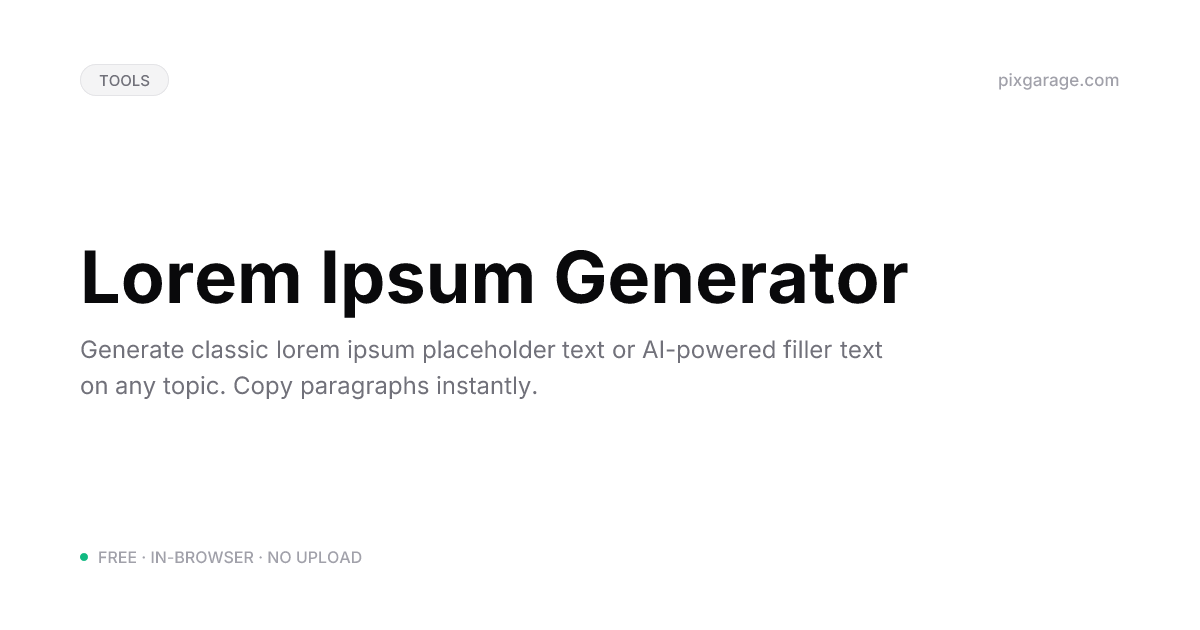
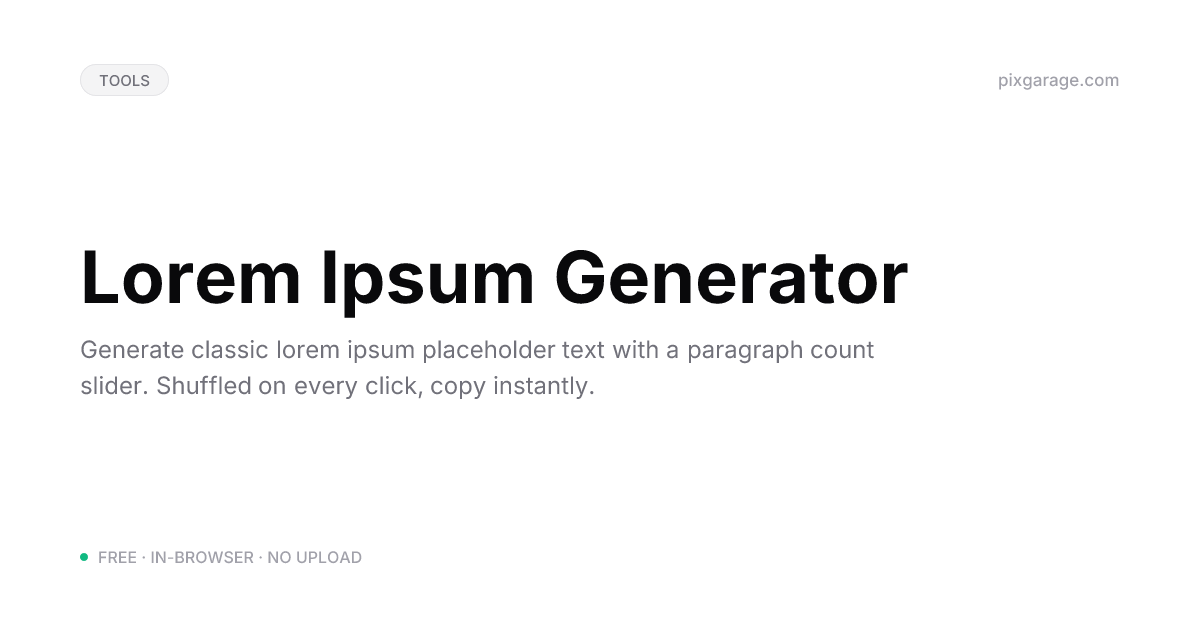
auto

Changed region(s): [[0.0617, 0.6032, 0.4933, 0.6333], [0.4933, 0.5429, 0.74, 0.573]]

diff --git a/src/app/tools/lorem-ipsum/client.tsx b/src/app/tools/lorem-ipsum/client.tsx
@@ -1,8 +1,7 @@
 "use client";
 
-import { useState, useRef } from "react";
-import { ArrowsClockwise, Copy, Check, Sparkle } from "@/components/ui/icons";
-import { cn } from "@/lib/utils";
+import { useState } from "react";
+import { ArrowsClockwise, Copy, Check } from "@/components/ui/icons";
 
 const LOREM_PARAGRAPHS = [
   "Lorem ipsum dolor sit amet, consectetur adipiscing elit. Sed do eiusmod tempor incididunt ut labore et dolore magna aliqua. Ut enim ad minim veniam, quis nostrud exercitation ullamco laboris nisi ut aliquip ex ea commodo consequat. Duis aute irure dolor in reprehenderit in voluptate velit esse cillum dolore eu fugiat nulla pariatur.",
@@ -17,73 +16,16 @@ const LOREM_PARAGRAPHS = [
   "Aenean commodo ligula eget dolor. Aenean massa. Cum sociis natoque penatibus et magnis dis parturient montes, nascetur ridiculus mus. Donec quam felis, ultricies nec, pellentesque eu, pretium quis, sem. Nulla consequat massa quis enim.",
 ];
 
-type Mode = "classic" | "ai";
-
 export function LoremIpsumClient() {
-  const [mode, setMode] = useState<Mode>("classic");
   const [paragraphs, setParagraphs] = useState(3);
-  const [topic, setTopic] = useState("");
   const [output, setOutput] = useState<string>(() =>
     LOREM_PARAGRAPHS.slice(0, 3).join("\n\n")
   );
-  const [loading, setLoading] = useState(false);
-  const [error, setError] = useState<string | null>(null);
   const [copied, setCopied] = useState(false);
-  const abortRef = useRef<AbortController | null>(null);
 
-  function generateClassic(count: number) {
+  function generate() {
     const shuffled = [...LOREM_PARAGRAPHS].sort(() => Math.random() - 0.5);
-    setOutput(shuffled.slice(0, count).join("\n\n"));
-    setError(null);
-  }
-
-  async function generateAI() {
-    if (!topic.trim()) { setError("Enter a topic first."); return; }
-    if (loading) { abortRef.current?.abort(); return; }
-
-    abortRef.current = new AbortController();
-    setLoading(true);
-    setError(null);
-    setOutput("");
-
-    try {
-      const res = await fetch("/api/lorem-ipsum", {
-        method: "POST",
-        headers: { "Content-Type": "application/json" },
-        body: JSON.stringify({ topic: topic.trim(), paragraphs }),
-        signal: abortRef.current.signal,
-      });
-
-      if (!res.ok) {
-        const text = await res.text();
-        throw new Error(text || `Error ${res.status}`);
-      }
-
-      const reader = res.body!.getReader();
-      const decoder = new TextDecoder();
-      let result = "";
-
-      while (true) {
-        const { done, value } = await reader.read();
-        if (done) break;
-        result += decoder.decode(value, { stream: true });
-        setOutput(result);
-      }
-    } catch (err) {
-      if ((err as Error).name !== "AbortError") {
-        setError((err as Error).message ?? "Something went wrong.");
-      }
-    } finally {
-      setLoading(false);
-    }
-  }
-
-  function handleGenerate() {
-    if (mode === "classic") {
-      generateClassic(paragraphs);
-    } else {
-      generateAI();
-    }
+    setOutput(shuffled.slice(0, paragraphs).join("\n\n"));
   }
 
   function copyOutput() {
@@ -96,42 +38,6 @@ export function LoremIpsumClient() {
 
   return (
     <div className="space-y-4">
-      {/* Mode toggle */}
-      <div className="flex gap-1 rounded-full bg-neutral-100 p-1 w-fit">
-        {(["classic", "ai"] as Mode[]).map((m) => (
-          <button
-            key={m}
-            onClick={() => { setMode(m); setError(null); }}
-            className={cn(
-              "flex items-center gap-1.5 rounded-full px-4 py-1.5 text-[13px] font-medium transition-colors",
-              mode === m
-                ? "bg-white text-foreground shadow-sm ring-1 ring-black/5"
-                : "text-neutral-500 hover:text-neutral-700"
-            )}
-          >
-            {m === "ai" && <Sparkle size={13} />}
-            {m === "classic" ? "Classic Lorem Ipsum" : "AI Topic Mode"}
-          </button>
-        ))}
-      </div>
-
-      {/* AI topic input */}
-      {mode === "ai" && (
-        <div>
-          <label className="block text-[12px] font-medium text-muted-foreground mb-1.5">
-            Topic
-          </label>
-          <input
-            type="text"
-            value={topic}
-            onChange={(e) => setTopic(e.target.value)}
-            onKeyDown={(e) => { if (e.key === "Enter") handleGenerate(); }}
-            placeholder="e.g. renewable energy, coffee brewing, space exploration"
-            className="w-full rounded-xl border border-black/10 bg-white px-4 py-2.5 text-[13px] text-foreground placeholder:text-neutral-400 focus:outline-none focus:ring-2 focus:ring-foreground/20"
-          />
-        </div>
-      )}
-
       {/* Paragraph count */}
       <div className="flex items-center gap-3">
         <span className="text-[12px] font-medium text-muted-foreground w-24 shrink-0">
@@ -149,30 +55,22 @@ export function LoremIpsumClient() {
 
       {/* Generate button */}
       <button
-        onClick={handleGenerate}
-        disabled={loading}
-        className="flex items-center gap-2 rounded-full bg-foreground px-5 py-2.5 text-[13px] font-medium text-white transition-colors hover:bg-foreground/90 disabled:opacity-60"
+        onClick={generate}
+        className="flex items-center gap-2 rounded-full bg-foreground px-5 py-2.5 text-[13px] font-medium text-white transition-colors hover:bg-foreground/90"
       >
-        <ArrowsClockwise size={13} className={loading ? "animate-spin" : ""} />
-        {loading ? "Generating…" : "Generate"}
+        <ArrowsClockwise size={13} />
+        Generate
       </button>
-
-      {/* Error */}
-      {error && (
-        <p className="text-[13px] text-red-500">{error}</p>
-      )}
 
       {/* Output */}
       {output && (
         <div className="relative">
           <div className="rounded-2xl bg-white ring-1 ring-black/6 p-5 shadow-[0_4px_24px_-6px_rgba(0,0,0,0.10),0_1px_3px_rgba(0,0,0,0.06)]">
-            <div className="prose prose-sm max-w-none">
-              {output.split("\n\n").filter(Boolean).map((para, i) => (
-                <p key={i} className="text-[13px] leading-relaxed text-muted-foreground mb-3 last:mb-0">
-                  {para}
-                </p>
-              ))}
-            </div>
+            {output.split("\n\n").filter(Boolean).map((para, i) => (
+              <p key={i} className="text-[13px] leading-relaxed text-muted-foreground mb-3 last:mb-0">
+                {para}
+              </p>
+            ))}
           </div>
           <button
             onClick={copyOutput}

diff --git a/src/app/tools/lorem-ipsum/page.tsx b/src/app/tools/lorem-ipsum/page.tsx
@@ -7,16 +7,16 @@ import { LoremIpsumClient } from "./client";
 import { OtherTools } from "@/components/converter/other-tools";
 
 export const metadata: Metadata = {
-  title: "Lorem Ipsum Generator | Classic & AI Topic Mode, Free Online",
+  title: "Lorem Ipsum Generator | Free Placeholder Text, No Signup",
   description:
-    "Generate classic lorem ipsum placeholder text or AI-powered filler copy on any topic. Choose paragraph count, copy instantly. Runs in your browser — no signup needed.",
+    "Generate classic lorem ipsum placeholder text instantly. Choose 1–10 paragraphs, shuffle on every click, and copy with one button. Free, in-browser, no signup needed.",
   keywords: [
     "lorem ipsum generator",
     "placeholder text generator",
     "dummy text generator",
     "filler text",
     "lorem ipsum online",
-    "ai lorem ipsum",
+    "lorem ipsum copy paste",
   ],
 };
 
@@ -41,7 +41,7 @@ export default function LoremIpsumPage() {
               Lorem Ipsum Generator
             </h1>
             <p className="text-[13px] text-muted-foreground">
-              Classic placeholder text or AI-powered filler copy on any topic.
+              Classic placeholder text — shuffle and copy in one click.
             </p>
           </div>
         </div>
@@ -63,36 +63,9 @@ export default function LoremIpsumPage() {
 
           <section>
             <h2 className="text-[17px] font-semibold tracking-tight text-foreground">
-              Classic vs AI Topic mode
-            </h2>
-            <p className="mt-2 text-[13px] leading-relaxed text-muted-foreground">
-              <strong className="text-foreground">Classic</strong> mode generates the familiar lorem ipsum Latin
-              paragraphs instantly in your browser — no network call needed. Use it whenever you just need inert filler
-              to fill a layout.
-            </p>
-            <p className="mt-2 text-[13px] leading-relaxed text-muted-foreground">
-              <strong className="text-foreground">AI Topic</strong> mode generates realistic, readable placeholder text
-              in English about any subject you specify. This is useful when you need a client or stakeholder to see
-              realistic content in a mockup without writing the actual copy yet — a tech startup landing page, a recipe
-              blog, or a travel brochure.
-            </p>
-          </section>
-
-          <section>
-            <h2 className="text-[17px] font-semibold tracking-tight text-foreground">
               Frequently asked questions
             </h2>
             <div className="mt-4 space-y-4">
-              <div>
-                <h3 className="text-[14px] font-semibold text-foreground">
-                  Does AI mode send my data anywhere?
-                </h3>
-                <p className="mt-1 text-[13px] leading-relaxed text-muted-foreground">
-                  AI Topic mode sends only your topic string to the Anthropic API to generate text. No personal data,
-                  images, or files are transmitted. Classic mode runs entirely in your browser with no network
-                  requests.
-                </p>
-              </div>
               <div>
                 <h3 className="text-[14px] font-semibold text-foreground">
                   How many paragraphs can I generate?

diff --git a/src/lib/tools.ts b/src/lib/tools.ts
@@ -640,8 +640,8 @@ export const TOOLS = [
     href: "/tools/lorem-ipsum",
     name: "Lorem Ipsum Generator",
     shortName: "Lorem Ipsum Generator",
-    description: "Generate classic lorem ipsum placeholder text or AI-powered filler text on any topic. Copy paragraphs instantly.",
-    badge: "AI topic mode",
+    description: "Generate classic lorem ipsum placeholder text with a paragraph count slider. Shuffled on every click, copy instantly.",
+    badge: "Instant copy",
     category: "text-tools" as CategoryId,
   },
   {
@@ -719,7 +719,7 @@ export const CATEGORY_METADATA = [
     href: "/text-tools",
     description: "Generate lorem ipsum placeholder text, convert text case, and count words, characters, and reading time.",
     seoTitle: "Free Online Text Tools — Lorem Ipsum, Case Converter, Word Counter | Pix Garage",
-    seoDescription: "Free text tools: lorem ipsum generator with AI topic mode, text case converter (8 formats), and word/character counter with reading time. All in-browser, no upload.",
+    seoDescription: "Free text tools: lorem ipsum generator, text case converter (9 formats), and word/character counter with reading time. All in-browser, no upload, no signup.",
   },
 ] as const;
 

diff --git a/src/components/ui/icons.tsx b/src/components/ui/icons.tsx
@@ -55,6 +55,5 @@ export {
   Article,
   TextAa,
   Hash,
-  Sparkle,
   Copy,
 } from "@phosphor-icons/react";